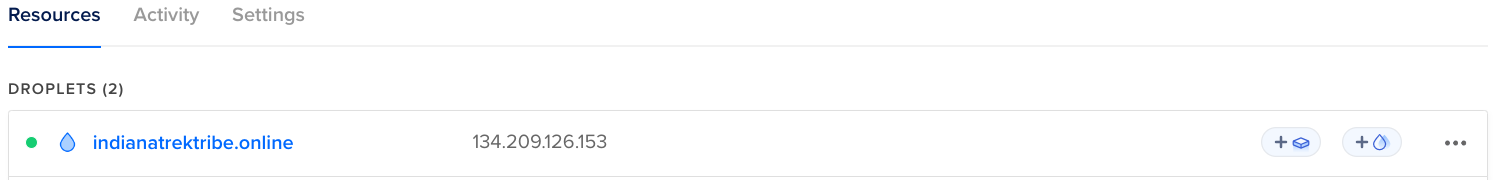
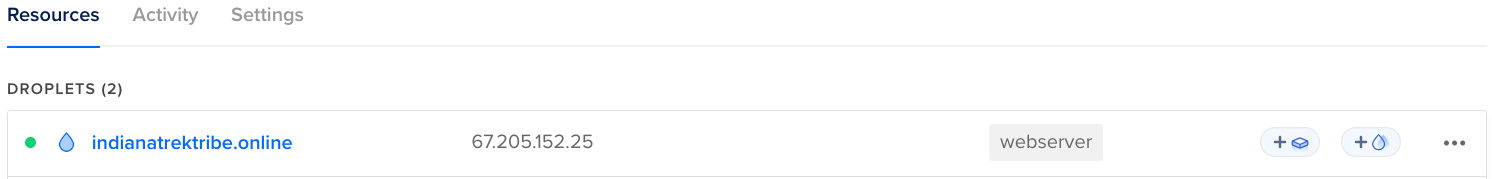
Edited droplet creation to add tag

diff --git a/README.md b/README.md
@@ -79,11 +79,11 @@ You'll need to remember the ID of your key, because you'll need it for the next 
 DigitalOcean calls their VMs `droplets`. To create a droplet, run the following command:
 
 ```shell
-doctl compute droplet create --image debian-12-x64 --size s-1vcpu-2gb --region nyc1 --enable-monitoring --ssh-keys 39125477 indianatrektribe.online
+doctl compute droplet create --image debian-12-x64 --size s-1vcpu-2gb --region nyc1 --enable-monitoring --ssh-keys 39125477 --tag-name webserver indianatrektribe.online
 ```
 ```shell
-ID           Name                       Public IPv4    Private IPv4    Public IPv6    Memory    VCPUs    Disk    Region    Image            VPC UUID    Status    Tags    Features                    Volumes
-370142505    indianatrektribe.online                                                  2048      1        50      nyc1      Debian 12 x64                new               monitoring,droplet_agent     
+ID           Name                       Public IPv4    Private IPv4    Public IPv6    Memory    VCPUs    Disk    Region    Image            VPC UUID    Status    Tags         Features                    Volumes
+370148209    indianatrektribe.online                                                  2048      1        50      nyc1      Debian 12 x64                new       webserver    monitoring,droplet_agent    
 ```
 
 As you can see, you'll get some output showing that the droplet was successfully created. You can also verify this by going to your DigitalOcean dashboard, where you will see the newly-created droplet displayed.
@@ -98,6 +98,7 @@ Okay, that's a pretty gnarly command, so let's break it down:
 * `--region nyc1`: The region where the cloud server is located
 * `--enable-monitoring`: Enables monitoring through DigitalOcean for analytics
 * `--ssh-keys 39125477`: The ID of your SSH key to be added to the VM
+* `--tag-name`: A tag to identify this droplet as a webserver
 * `indianatrektribe.online`: The name of the droplet
 
 Once the droplet has been created, you can connect to it remotely by running:
